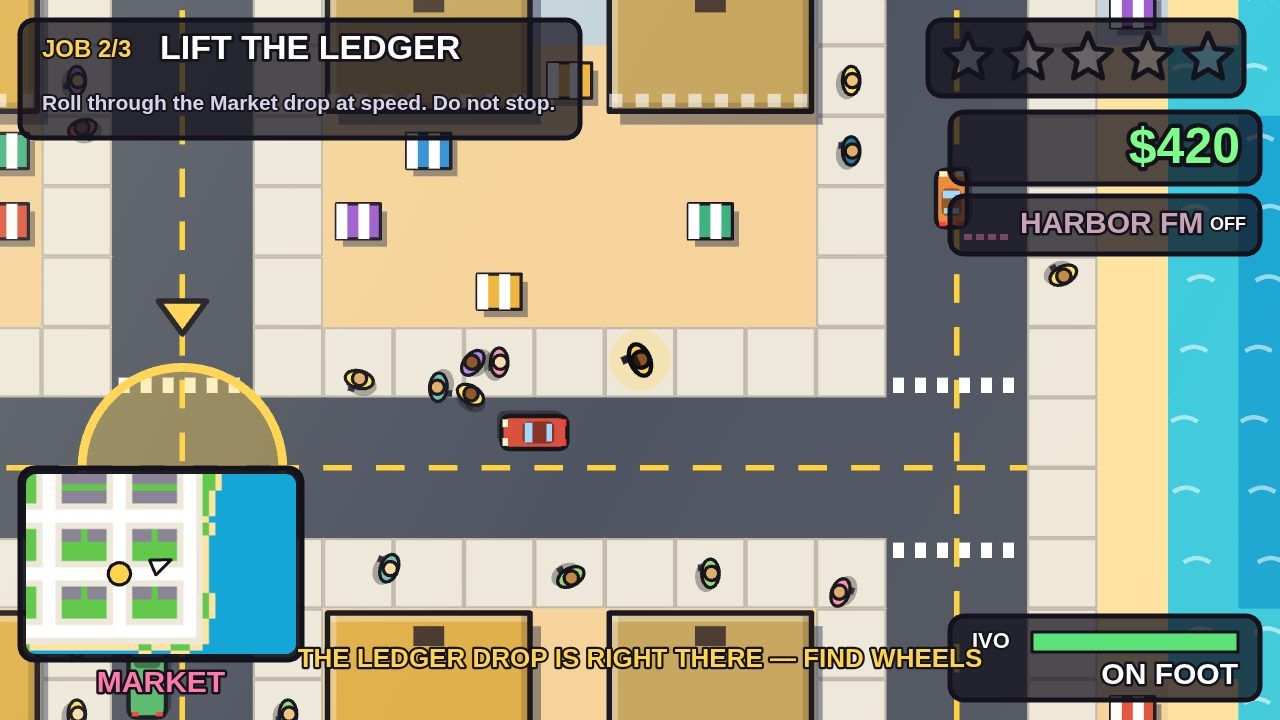
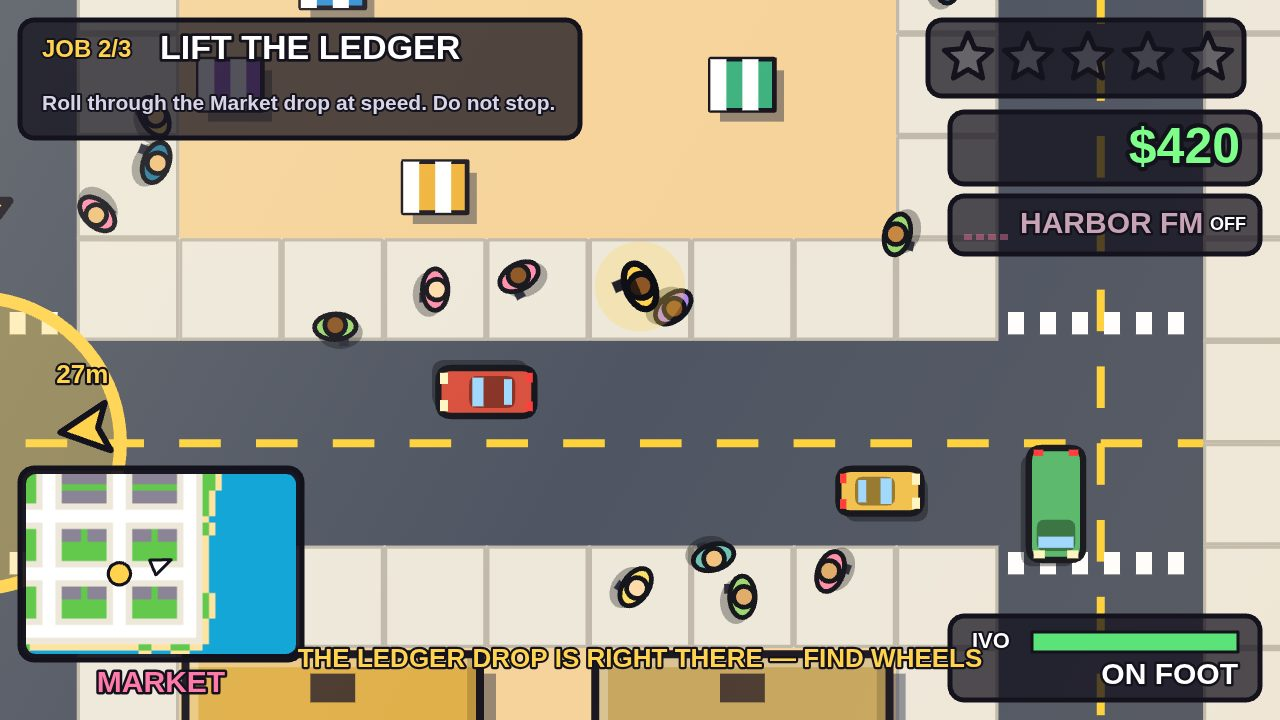
Tighten street, pier and chase shots (zoom 1.6/1.55/1.45), keep the target arrow clear of HUD panels, and set its distance label beside the arrow so it no longer overlaps the player's van; retake screenshots

diff --git a/game/src/shots.js b/game/src/shots.js
@@ -77,29 +77,30 @@ export function stageShot(name, seed) {
     world.player.step = 2;
     const px = world.player.x;
     const py = world.player.y;
-    world.cars = world.cars.filter((c) => Math.hypot(c.x - px, c.y - py) > 260);
-    crowd(world, px, py, 14, 520);
-    civilian(world, 46 * T, 27.5 * T, Math.PI, 'sedan', '#d94f3d');
-    civilian(world, 36 * T, 28.5 * T, 0, 'hatch', '#f2c14e');
-    civilian(world, 40.5 * T, 31 * T, -Math.PI / 2, 'van', '#57b86b');
+    world.cars = world.cars.filter((c) => Math.hypot(c.x - px, c.y - py) > 480);
+    crowd(world, px, py + 40, 18, 340);
+    civilian(world, 2944, 1760, Math.PI, 'sedan', '#d94f3d');
+    civilian(world, 3190, 1822, 0, 'hatch', '#f2c14e');
+    civilian(world, 3300, 1830, Math.PI / 2, 'van', '#57b86b');
     world.time = 12.4;
     snapCamera(world);
-    world.camera.zoom = 1.1;
+    world.camera.y = 1740;
+    world.camera.zoom = 1.6;
     world.feed.push({ text: 'THE LEDGER DROP IS RIGHT THERE — FIND WHEELS', color: '#ffd34d', time: 3 });
     return { world, mode: 'play' };
   }
   if (name === 'pier') {
     const world = createWorld({ seed, job: 2, cash: 1420 });
     world.jobs.ledger = true;
-    boardVan(world, 41 * T, 6.2 * T, -Math.PI / 2, 260);
+    boardVan(world, 41 * T, 7 * T, -Math.PI / 2, 260);
     setLevel(world.wanted, 2);
-    cruiser(world, 40.6 * T, 11.2 * T, -Math.PI / 2 - 0.15, 300);
-    cruiser(world, 37 * T, 9.5 * T, -0.1, 280);
-    crowd(world, 41 * T, 7 * T, 6, 300);
+    cruiser(world, 40.6 * T, 9.4 * T, -Math.PI / 2 - 0.15, 300);
+    cruiser(world, 39 * T, 9.5 * T, -0.1, 280);
+    crowd(world, 41 * T, 8.5 * T, 8, 260);
     world.time = 21.7;
     snapCamera(world);
-    world.camera.y += 60;
-    world.camera.zoom = 0.92;
+    world.camera.y = 478;
+    world.camera.zoom = 1.55;
     return { world, mode: 'play' };
   }
   const world = createWorld({ seed, job: 2, cash: 1420 });

diff --git a/game/src/hud.js b/game/src/hud.js
@@ -154,8 +154,10 @@ function drawTargetArrow(ctx, world, W, H) {
   const sy = (m.y - cam.y) * cam.zoom + H / 2;
   if (sx > 60 && sx < W - 60 && sy > 60 && sy < H - 60) return;
   const a = Math.atan2(sy - H / 2, sx - W / 2);
+  // Keep the arrow inside a box that clears the top HUD panels (job card on
+  // the left, wanted/cash/radio on the right end near y=186) and the bottom ones.
   const rx = W / 2 - 90;
-  const ry = H / 2 - 90;
+  const ry = Math.sin(a) < 0 ? H / 2 - 190 : H / 2 - 140;
   const k = Math.min(rx / Math.abs(Math.cos(a) || 0.001), ry / Math.abs(Math.sin(a) || 0.001));
   ctx.save();
   ctx.translate(W / 2 + Math.cos(a) * k, H / 2 + Math.sin(a) * k);
@@ -173,8 +175,10 @@ function drawTargetArrow(ctx, world, W, H) {
   ctx.stroke();
   ctx.restore();
   const dist = Math.hypot(m.x - (world.player.car || world.player).x, m.y - (world.player.car || world.player).y);
-  const tx = W / 2 + Math.cos(a) * (k - 62);
-  const ty = H / 2 + Math.sin(a) * (k - 62);
+  // Label sits beside the arrow (perpendicular to its heading) so it never
+  // drifts inward onto the player's vehicle or outward into the HUD panels.
+  const tx = W / 2 + Math.cos(a) * k - Math.sin(a) * 62;
+  const ty = H / 2 + Math.sin(a) * k + Math.cos(a) * 62 + 9;
   text(ctx, `${Math.round(dist / T * 4)}m`, tx, ty, 26, '#ffd34d', 'center');
 }
 
